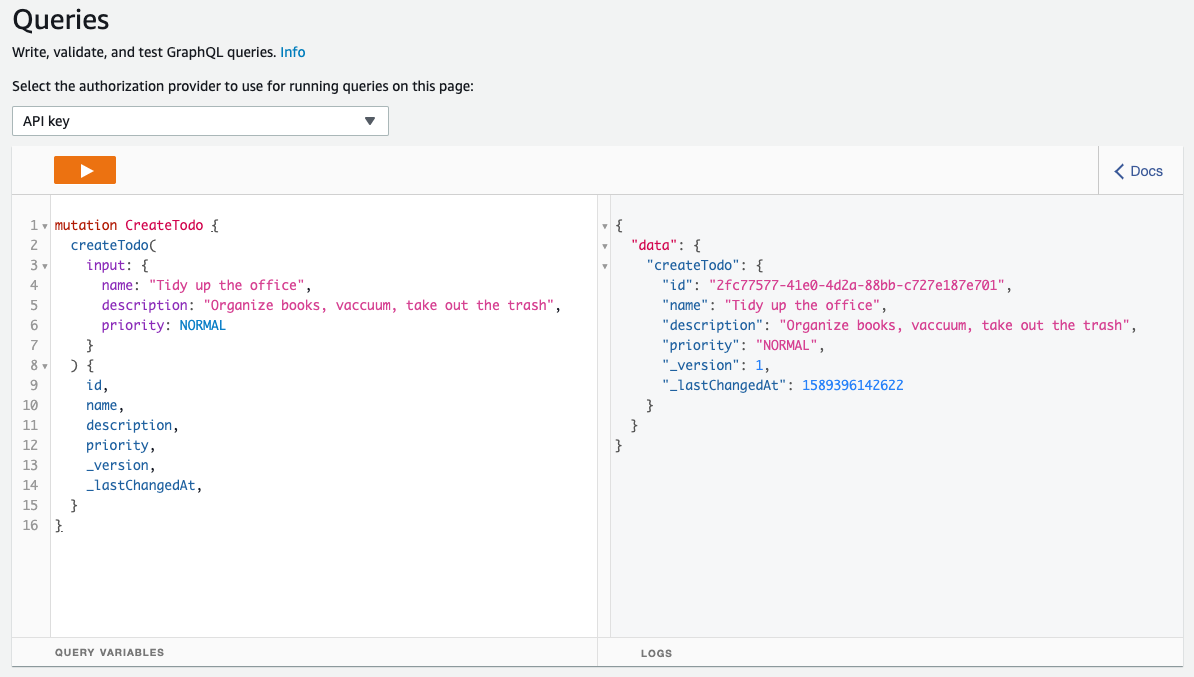
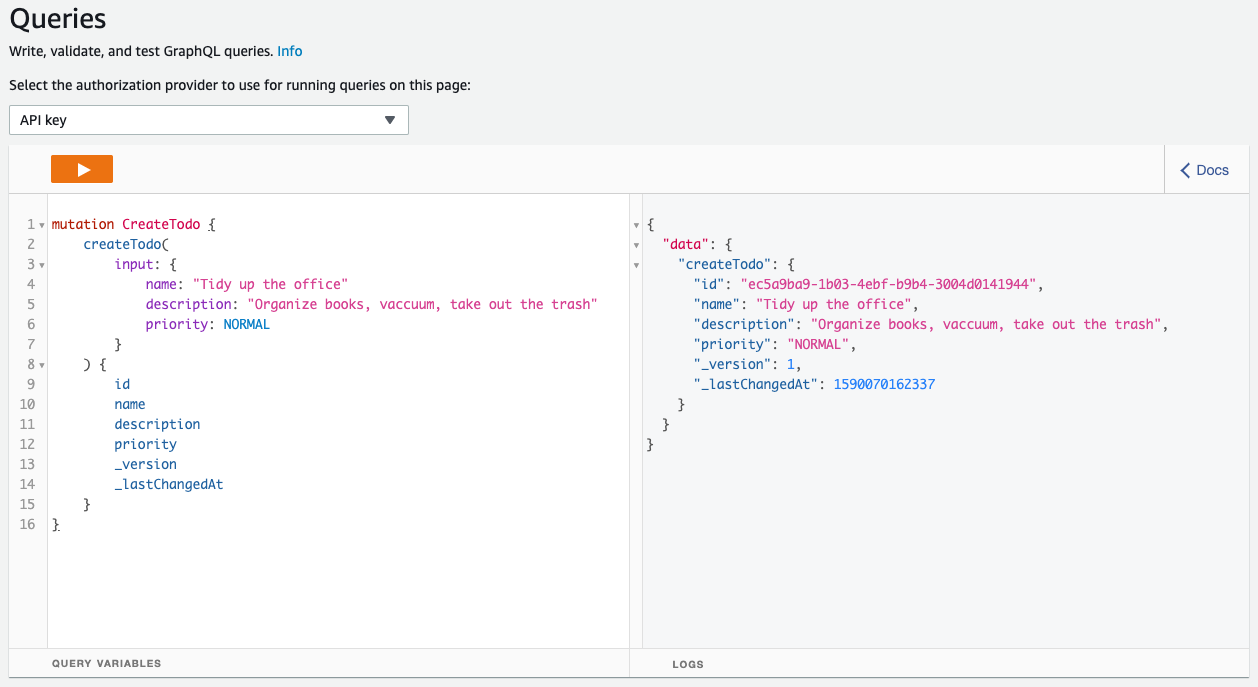
Continued Android Getting Started fixes

diff --git a/docs/start/getting-started/fragments/android/native_integrate.md b/docs/start/getting-started/fragments/android/native_integrate.md
@@ -1,4 +1,4 @@
-Next you'll use the generated model to create, update, query, and delete data. In this section you'll initialize DataStore, and then manipulate Todo items.
+Next you'll use the generated model to read and write data. In this section you'll initialize DataStore, and create and query for Todo items.
 
 ## Configure Amplify and DataStore
 
@@ -12,6 +12,7 @@ First, we'll add the DataStore plugin and configure Amplify. Typically, a good p
   ```java
   try {
       Amplify.addPlugin(new AWSDataStorePlugin());
+      Amplify.addPlugin(new AWSApiPlugin());
       Amplify.configure(getApplicationContext());
 
       Log.i("Tutorial", "Initialized Amplify");
@@ -27,6 +28,7 @@ First, we'll add the DataStore plugin and configure Amplify. Typically, a good p
   ```kotlin
   try {
       Amplify.addPlugin(AWSDataStorePlugin())
+      Amplify.addPlugin(AWSApiPlugin())
       Amplify.configure(applicationContext)
 
       Log.i("Tutorial", "Initialized Amplify")
@@ -133,7 +135,7 @@ Next, you'll create a Todo and save it to DataStore.
   ```kotlin
   val item = Todo.builder()
         .name("Finish quarterly taxes")
-        .priority(1)
+        .priority(Priority.HIGH)
         .description("Taxes are due for the quarter next week")
         .build()
   ```
@@ -285,7 +287,7 @@ Now that you have some data in DataStore, you can run queries to retrieve those 
         Where.matches(
             Todo.PRIORITY.eq(Priority.HIGH)
         ),
-        Consumer { todos ->
+        { todos ->
             while (todos.hasNext()) {
                 val todo = todos.next()
                 val name = todo.name;
@@ -304,7 +306,7 @@ Now that you have some data in DataStore, you can run queries to retrieve those 
                 }
             }
         },
-        Consumer { failure -> Log.e("Tutorial", "Could not query DataStore", failure) }
+        { failure -> Log.e("Tutorial", "Could not query DataStore", failure) }
     )
     ```
 
@@ -322,138 +324,3 @@ Now that you have some data in DataStore, you can run queries to retrieve those 
   com.example.todo I/Tutorial: Description: Taxes are due for the quarter next week
   com.example.todo I/Tutorial: Priority: HIGH
   ```
-
-## Update a Todo
-
-You may want to change the contents of a record. Below, we'll query for a record, create a copy of it, modify it, and save it back to DataStore. 
-
-1. Edit your `onCreate` method to remove the item creation and save. Your `onCreate()` should only include the code required to initiatize Amplify and not calls to `Todo.builder()` or `Amplify.DataStore.save()`.
-
-1. Below the initialization code, add the following: 
-
-  <amplify-block-switcher>
-  <amplify-block name="Java">
-
-    ```java
-    Amplify.DataStore.query(
-            Todo.class,
-            Where.matches(
-              Todo.NAME.eq("Finish quarterly taxes")
-            ),
-            todos -> {
-                while (todos.hasNext()) {
-                    Todo todo = todos.next();
-                    Todo updated = todo.copyOfBuilder()
-                            .name("File quarterly taxes")
-                            .build();
-
-                    Amplify.DataStore.save(updated,
-                            success -> Log.i("Tutorial", "Updated item: " + success.item.getName()),
-                            error -> Log.e("Tutorial", "Could not update data in DataStore", error)
-                    );
-                }
-            },
-            failure -> Log.e("Tutorial", "Could not query DataStore", failure)
-    );
-    ```
-
-  </amplify-block>
-
-  <amplify-block name="Kotlin">
-
-    ```kotlin
-    Amplify.DataStore.query(
-            Todo::class.java,
-            Where.matches(
-              Todo.NAME.eq("Finish quarterly taxes")
-            ),
-            Consumer { todos ->
-                while (todos.hasNext()) {
-                    val todo = todos.next()
-                    val updated = todo.copyOfBuilder()
-                            .name("File quarterly taxes")
-                            .build()
-                    Amplify.DataStore.save(updated,
-                            { success -> Log.i("Tutorial", "Updated item: " + success.item.name) },
-                            { error -> Log.e("Tutorial", "Could not save item to DataStore", error) }
-                    )
-                }
-            },
-            Consumer { failure -> Log.e("Tutorial", "Could not query DataStore", failure) }
-    )
-    ```
-
-  </amplify-block>
-  </amplify-block-switcher>
-
-    Models in DataStore are immutable, so in order to update you first create a copy of the object, modify its properties, and then save it.
-
-1. Run the application. In logcat, you'll see an indication that the item was updated successfully:
-
-    ```console
-    com.example.todo I/Tutorial: Initialized Amplify
-    com.example.todo I/Tutorial: Updated item: File quarterly taxes
-    ```
-  
-## Delete a Todo
-
-To round out our CRUD operations, we'll query for a record and delete it from DataStore.
-
-1. Edit your `onCreate` method to remove the item creation and save. Your `onCreate()` should only include the code required to initiatize Amplify and not calls to `Todo.builder()` or `Amplify.DataStore.save()`.
-
-1. Below the initialization code, add the following: 
-
-  <amplify-block-switcher>
-  <amplify-block name="Java">
-
-    ```java
-    Amplify.DataStore.query(
-        Todo.class,
-        Where.matches(
-          Todo.NAME.eq("File quarterly taxes")
-        ),
-        todos -> {
-            if (todos.hasNext()) {
-                Todo todo = todos.next();
-
-                Amplify.DataStore.delete(todo,
-                        success -> Log.i("Tutorial", "Deleted item: " + success.item.getName()),
-                        error -> Log.e("Tutorial", "Could not delete item", error)
-                );
-            }
-        },
-        failure -> Log.e("Tutorial", "Could not query DataStore", failure)
-  );
-  ```
-  </amplify-block>
-
-  <amplify-block name="Kotlin">
-
-  ```kotlin
-  Amplify.DataStore.query(
-        Todo::class.java,
-        Where.matches(
-          Todo.NAME.eq("File quarterly taxes")
-        ),
-        Consumer { todos ->
-            if (todos.hasNext()) {
-                val todo = todos.next()
-                Amplify.DataStore.delete(todo,
-                        { success -> Log.i("Tutorial", "Deleted item: " + success.item.name) },
-                        { error -> Log.e("Tutorial", "Could not delete item", error) }
-                )
-            }
-        },
-        Consumer { failure -> Log.e("Tutorial", "Could not query DataStore", failure) }
-  )
-  ```
-
-  </amplify-block>
-  </amplify-block-switcher>
-
-  1. Run the application. In logcat, you'll see an indication that the item was deleted successfully:
-
-    ```console
-    com.example.todo I/Tutorial: Initialized Amplify
-    com.example.todo I/Tutorial: Deleted item: File quarterly taxes
-    ```

diff --git a/docs/start/getting-started/fragments/android/native_add-api.md b/docs/start/getting-started/fragments/android/native_add-api.md
@@ -14,31 +14,12 @@ Now that your have DataStore persisting data locally, in the next step you'll co
 
 1. Run the task. You can do this by pressing the **play button** or pressing **Control-R**.
 
-1. Modify your initialization code to initialize API in order to connect to the backend. Open `MainActivity` and remove all of the previous code you entered. Now, add the following code to the bottom of the `onCreate()` method:
+1. Modify your initialization code to initialize API in order to connect to the backend. Open `MainActivity` and remove all of the previous code you entered that saved and queried for Todo items. Now, add the following code to the bottom of the `onCreate()` method:
 
   <amplify-block-switcher>
   <amplify-block name="Java">
   
   ```java
-  try {
-      Amplify.addPlugin(new AWSDataStorePlugin());
-      Amplify.addPlugin(new AWSApiPlugin());
-      Amplify.configure(getApplicationContext());
-
-      Log.i("Tutorial", "Initialized Amplify");
-  } catch (AmplifyException e) {
-      Log.e("Tutorial", "Could not initialize Amplify", e);
-  }
-
-  Amplify.DataStore.save(
-          Todo.builder()
-                  .name("Build Android application")
-                  .description("Build an Android application using Amplify")
-                  .build(),
-          success -> Log.i("Tutorial", "Saved item: " + success.item.getName()),
-          error -> Log.e("Tutorial", "Could not save item to DataStore", error)
-  );
-
   Amplify.Hub.subscribe(
           HubChannel.DATASTORE,
           event -> DataStoreChannelEventName.RECEIVED_FROM_CLOUD.toString().equals(event.getName()),
@@ -65,25 +46,6 @@ Now that your have DataStore persisting data locally, in the next step you'll co
   <amplify-block name="Kotlin">
 
   ```kotlin
-  try {
-      Amplify.addPlugin(AWSDataStorePlugin())
-      Amplify.addPlugin(AWSApiPlugin())
-      Amplify.configure(applicationContext)
-
-      Log.i("Tutorial", "Initialized Amplify")
-  } catch (e: AmplifyException) {
-      Log.e("Tutorial", "Could not initialize Amplify", e)
-  }
-
-  Amplify.DataStore.save(
-          Todo.builder()
-                  .name("Build Android application")
-                  .description("Build an Android application using Amplify")
-                  .build(),
-          { success -> Log.i("Tutorial", "Saved item: " + success.item.getName()) },
-          { error -> Log.e("Tutorial", "Could not save item to DataStore", error) }
-  )
-
   Amplify.Hub.subscribe(
           HubChannel.DATASTORE,
           { event -> event.getName() == DataStoreChannelEventName.RECEIVED_FROM_CLOUD.toString() },
@@ -111,7 +73,7 @@ Now that your have DataStore persisting data locally, in the next step you'll co
   </amplify-block>
   </amplify-block-switcher>
 
-1. Run the application. This will create a new Todo item and synchronize it to the backend called "Build Android application." Additionally, it subscribes to Hub – our lightweight publish/subscribe mechanism to allow an application to be notified of events – for any items created on the cloud and synchronized locally and logs those Todo items. 
+1. Run the application. This will synchronize the existing local Todo items to the cloud. The above snippet subscribes to Hub – our lightweight publish/subscribe mechanism to allow an application to be notified of events – for any items created on the cloud and synchronized locally and logs those Todo items. 
 
 1. Open up a terminal window. You can use an external terminal or the integrated terminal in Android Studio. In the terminal, run `amplify api console`. When prompted, select **GraphQL**. This will open the AWS AppSync console.
 
@@ -133,7 +95,6 @@ Now that your have DataStore persisting data locally, in the next step you'll co
                 id
                 name
                 description
-                _deleted
             }
         }
     }
@@ -149,26 +110,24 @@ Now that your have DataStore persisting data locally, in the next step you'll co
     mutation CreateTodo {
         createTodo(
             input: {
-            name: "Tidy up the office",
-            description: "Organize books, vaccuum, take out the trash",
-            priority: NORMAL
+                name: "Tidy up the office"
+                description: "Organize books, vaccuum, take out the trash"
+                priority: NORMAL
             }
         ) {
-            id,
-            name,
-            description,
-            priority,
-            _version,
-            _lastChangedAt,
+            id
+            name
+            description
+            priority
+            _version
+            _lastChangedAt
         }
     }
-    ```
+```
 
     ![](~/images/lib/getting-started/android/set-up-appsync-create.png)
 
-1. Start your application. In the logs, filter for **Tutorial**.
-
-    You will see this item synchronize to your local storage:
+1. In the logs of your running application, filter for **Tutorial**. You will see this item synchronize to your local storage:
 
     ```console
     com.example.todo I/Tutorial: ==== Todo ====
